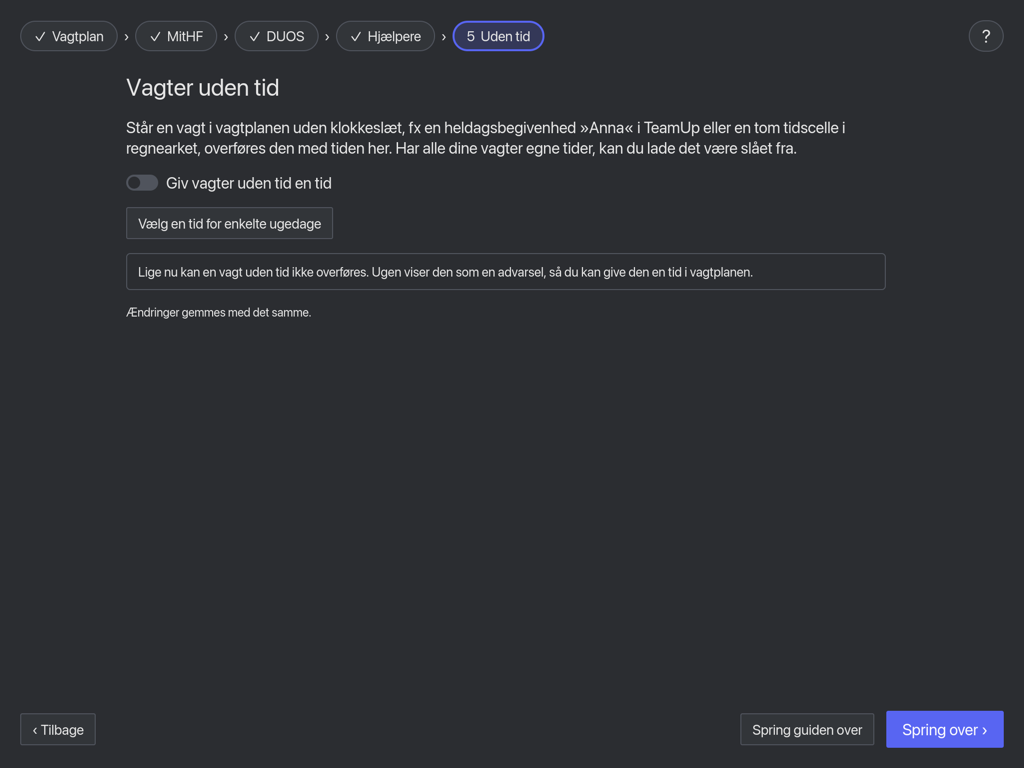
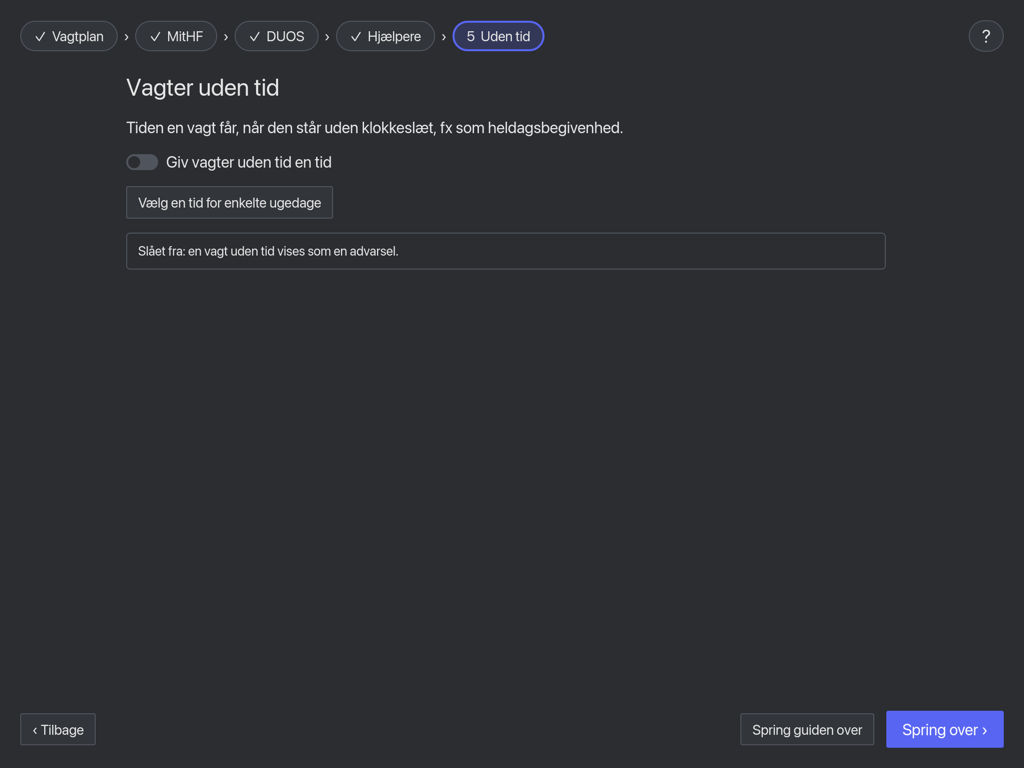
Cut Vagter uden tid's text to one line each
The intro is one sentence, the example reads »»Anna« uden tid en mandag
bliver Anna 06:00–22:00«, the switched-off case says a shift without a
time shows as a warning, the selected shift says »Tid fra Vagter uden
tid«, and the line about saving is gone: everything saves at once.

Changed region(s): [[0.125, 0.1562, 0.8125, 0.4375]]

diff --git a/desktop/src/untimed.rs b/desktop/src/untimed.rs
@@ -16,7 +16,8 @@ use crate::setup::{Message, SetupUi};
 pub const NAME: &str = "Vagter uden tid";
 
 /// What the setting does, in the user's own terms.
-pub const INTRO: &str = "Står en vagt i vagtplanen uden klokkeslæt, fx en heldagsbegivenhed »Anna« i TeamUp eller en tom tidscelle i regnearket, overføres den med tiden her. Har alle dine vagter egne tider, kan du lade det være slået fra.";
+pub const INTRO: &str =
+    "Tiden en vagt får, når den står uden klokkeslæt, fx som heldagsbegivenhed.";
 
 /// The range a newly switched-on time starts from.
 const FIRST_RANGE: Range = Range {
@@ -175,9 +176,7 @@ impl SetupUi {
         if let Some(error) = &self.error {
             content = content.push(text(error).size(13));
         }
-        content
-            .push(text("Ændringer gemmes med det samme.").size(12))
-            .into()
+        content.into()
     }
 
     fn weekdays(&self, common: Option<Range>) -> Column<'_, Message> {
@@ -257,10 +256,10 @@ impl SetupUi {
         });
         match found {
             Some((day, range)) => format!(
-                "Eksempel: Står »Anna« uden tid i vagtplanen en {day}, overføres vagten som Anna {}.",
+                "Eksempel: »Anna« uden tid en {day} bliver Anna {}.",
                 range.label()
             ),
-            None => "Lige nu kan en vagt uden tid ikke overføres. Ugen viser den som en advarsel, så du kan give den en tid i vagtplanen.".into(),
+            None => "Slået fra: en vagt uden tid vises som en advarsel.".into(),
         }
     }
 
@@ -433,13 +432,9 @@ mod tests {
     #[test]
     fn the_example_names_the_first_day_with_a_time_or_says_there_is_none() {
         let mut ui = SetupUi::default();
-        assert!(ui
-            .example()
-            .starts_with("Lige nu kan en vagt uden tid ikke"));
+        assert!(ui.example().starts_with("Slået fra"));
         ui.standard_days[5] = "8-20".into();
-        assert!(ui
-            .example()
-            .contains("en lørdag, overføres vagten som Anna 08:00–20:00"));
+        assert!(ui.example().contains("en lørdag bliver Anna 08:00–20:00"));
         ui.standard_default = "6-22".into();
         ui.standard_days[0] = "ingen".into();
         assert!(ui.example().contains("en tirsdag"));

diff --git a/desktop/src/widgets.rs b/desktop/src/widgets.rs
@@ -650,10 +650,7 @@ pub fn shift_details<'a, M: 'a>(block: &'a Block) -> Element<'a, M> {
     ]
     .spacing(4);
     if block.standard_time {
-        lines = lines.push(
-            text("Vagten har ingen tid i vagtplanen. Tiden kommer fra Indstillinger → Vagter uden tid.")
-                .size(13),
-        );
+        lines = lines.push(text("Tid fra Vagter uden tid.").size(13));
     }
     if !block.sps_label.is_empty() {
         lines = lines.push(text(format!("SPS {}", block.sps_label)).size(13));

diff --git a/docs/guided-setup.md b/docs/guided-setup.md
@@ -225,7 +225,7 @@ says how long the shift is, such as `10 timer, slutter næste dag`. Each weekday
 is **Som alle dage**, **Egen tid** with its own pickers, or **Ingen tid**. With
 the switch off, **Vælg en tid for enkelte ugedage** shows the weekdays, so only
 some days can have a time. A card shows what »Anna« without a time becomes on
-the first day that has one, or says that such a shift cannot be transferred.
+the first day that has one, or that such a shift is shown as a warning.
 The picks are saved as the `HH:MM-HH:MM` ranges the core reads. Older typed
 values such as `6-22` or `22.15-8` show in the pickers as they were.
 The app uses Copenhagen local time and refuses ambiguous or nonexistent times
@@ -239,7 +239,7 @@ time is reported with the shift, date and weekday, and where to choose one:
 »Annas vagt d. 3/11 har ingen tid, og der er ikke valgt en tid for vagter uden
 tid om tirsdagen. Vælg en under Indstillinger → Vagter uden tid.« The week
 preview marks every such shift `uden tid`, and the selected shift's details
-say where its time came from. The ordinary reminder, marker, meeting and SPS
+say »Tid fra Vagter uden tid«. The ordinary reminder, marker, meeting and SPS
 rules still apply, so an all-day `Ønsker fri` is a marker, not a shift without
 a time. Picks save at once, and a changed time requires a fresh week review.
 A shift's identity is its date. Editing cells in place updates the same
